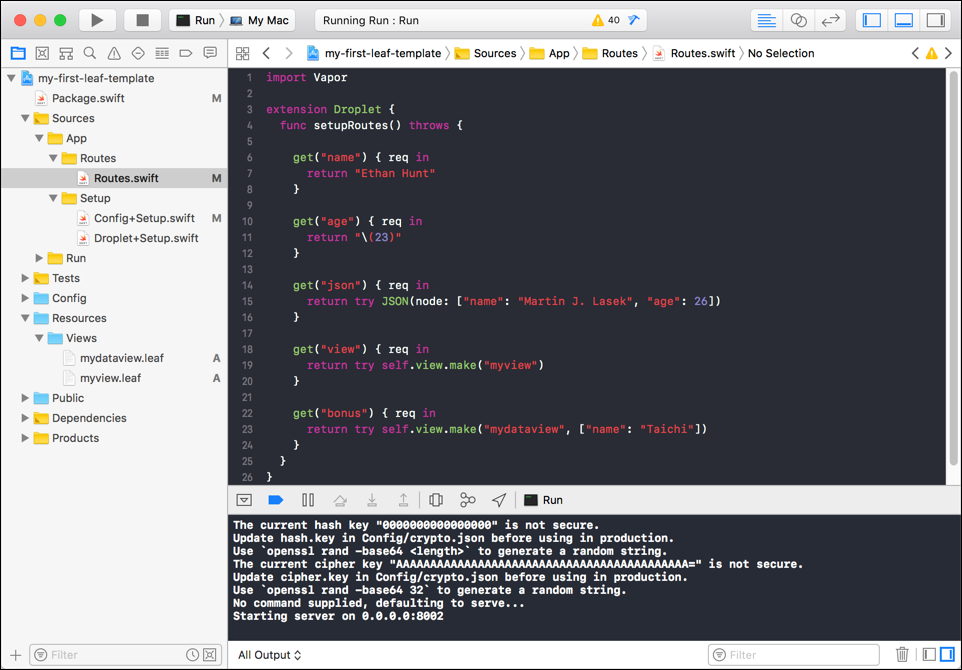
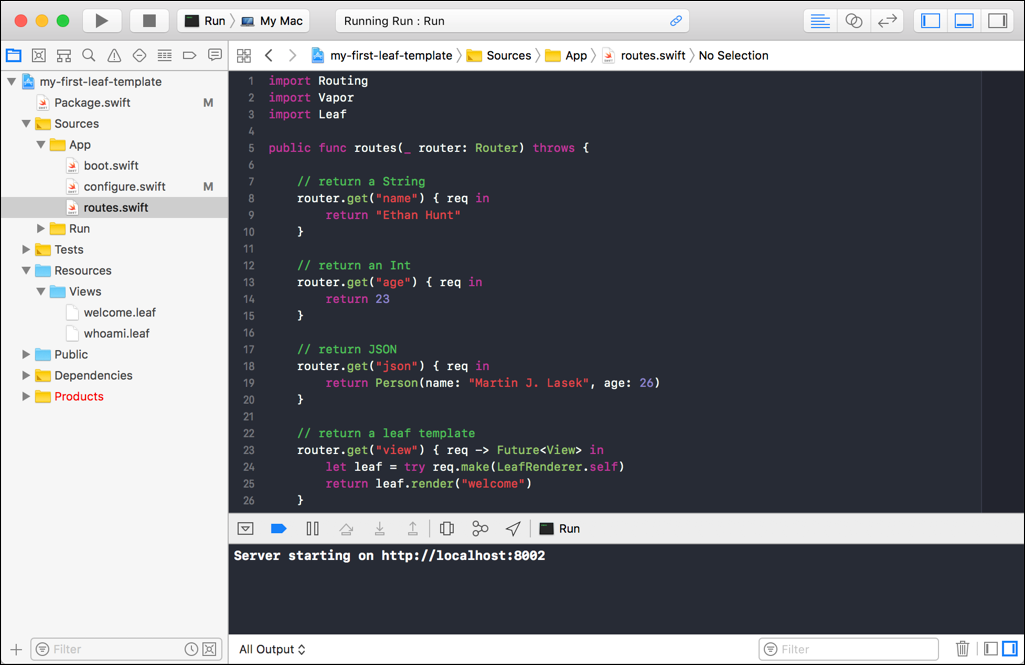
Added image and tutorial link

Changed region(s): [[0.0, 0.0, 1.0, 1.0], [0.6861, 0.4211, 0.7484, 0.4511], [0.6237, 0.4211, 0.6549, 0.4812]]

diff --git a/Sources/App/configure.swift b/Sources/App/configure.swift
@@ -12,7 +12,7 @@ public func configure(
     try routes(router)
     services.register(router, as: Router.self)
 
-    let myService = try EngineServerConfig.detect(port: 8001)
+    let myService = try EngineServerConfig.detect(port: 8002)
     services.register(myService)
 
     try services.register(LeafProvider())

diff --git a/README.md b/README.md
@@ -1,9 +1,9 @@
 <p align="center">
-  <h2>My First Route 👨🏼💻 </h2>
+  <h2>My First Leaf Template 👨🏼💻 </h2>
   <h3>Tutorial to build this project</h3>
-  <h4><a href="https://medium.com/@martinlasek/tutorial-how-to-set-up-a-vapor-3-project-75466394cf2e" target="_blank">How to set up a Vapor 3 project</a></h4>
+  <h4><a href="https://medium.com/@martinlasek/tutorial-how-to-use-leaf-70d796831ec5" target="_blank">How to use Leaf</a></h4>
   <br>
-  <img width="100%" src="my-first-route.png" alt="screenshot">
+  <img width="100%" src="my-first-leaf-template.png" alt="screenshot">
 </p>
 
 ## Community 🚀
